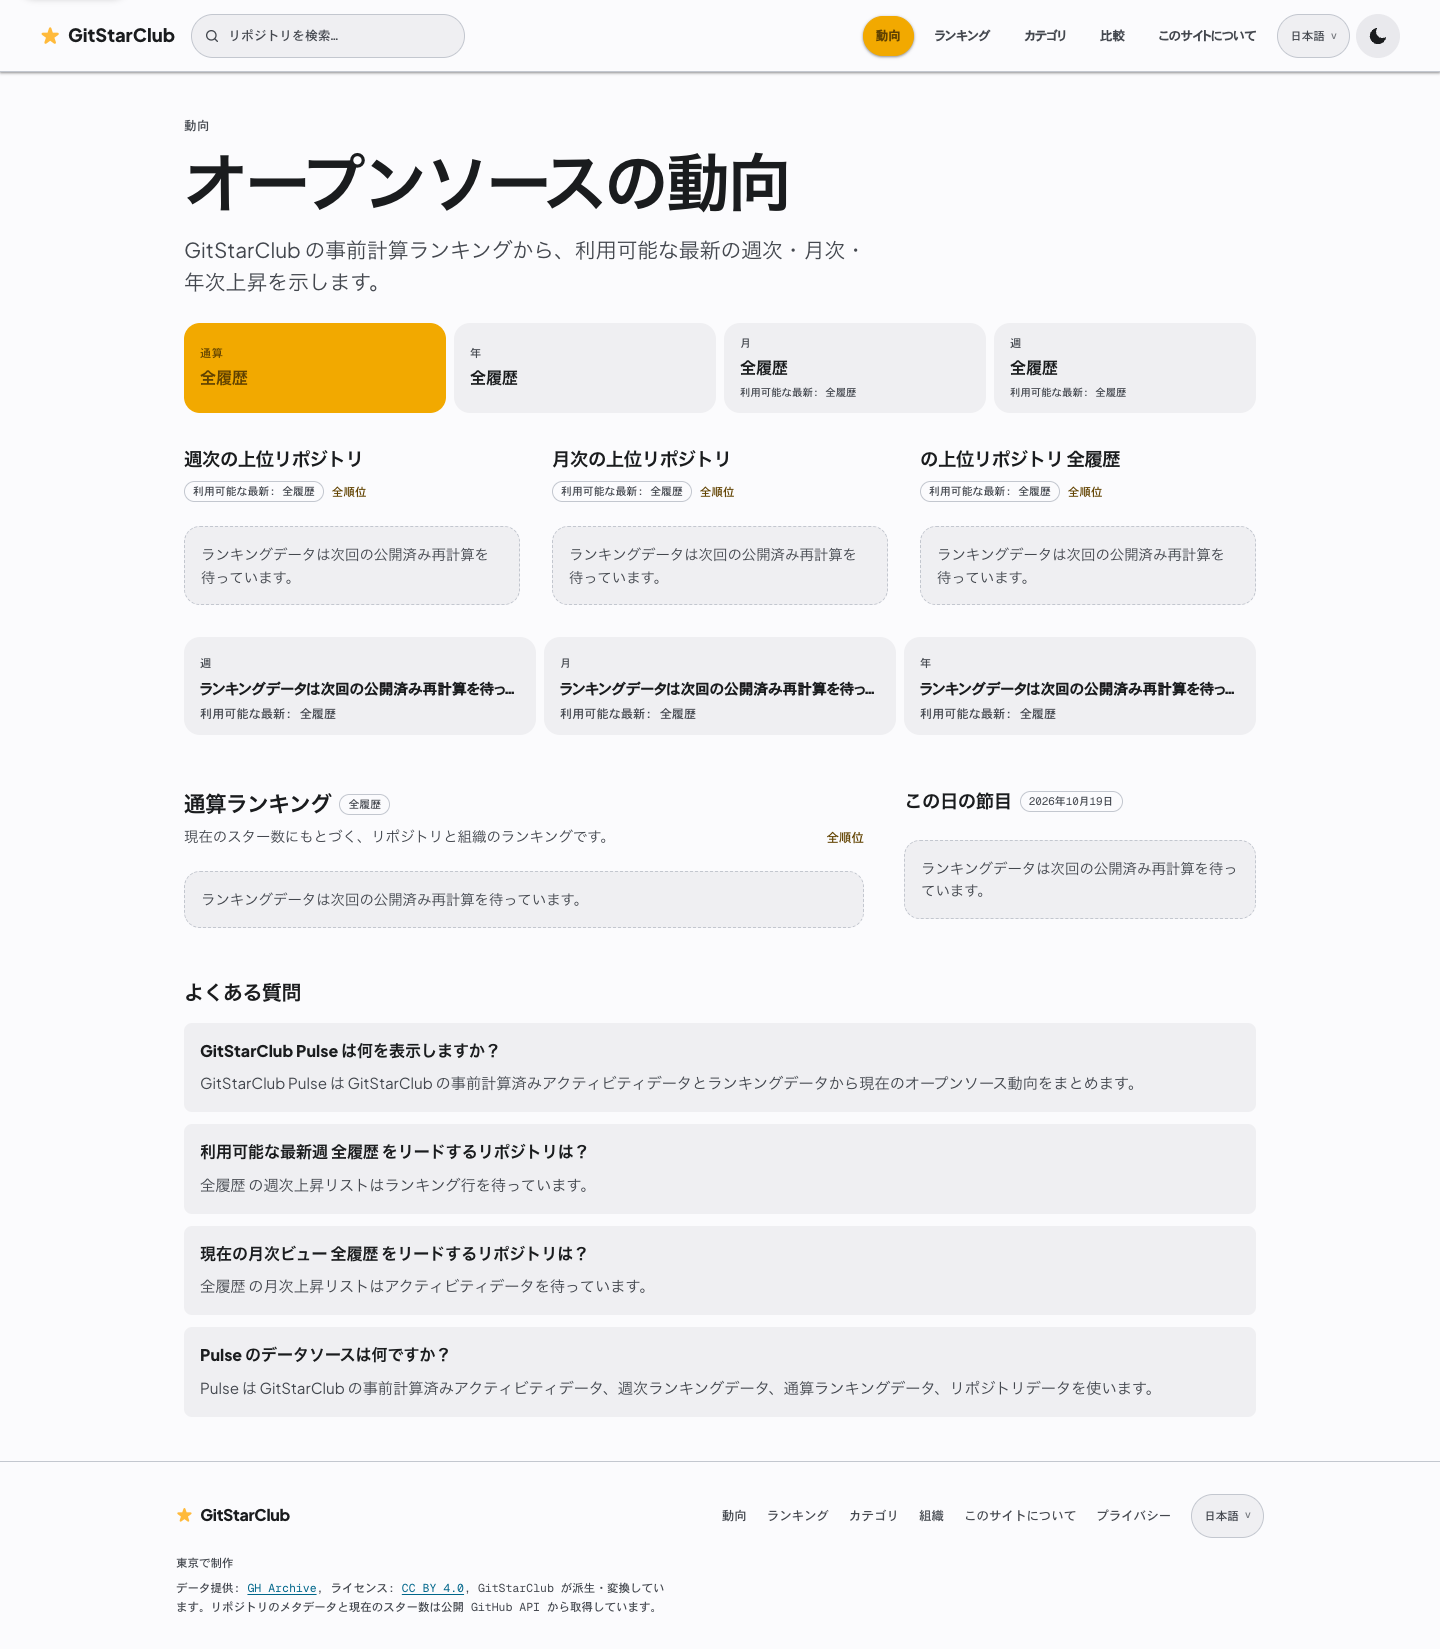
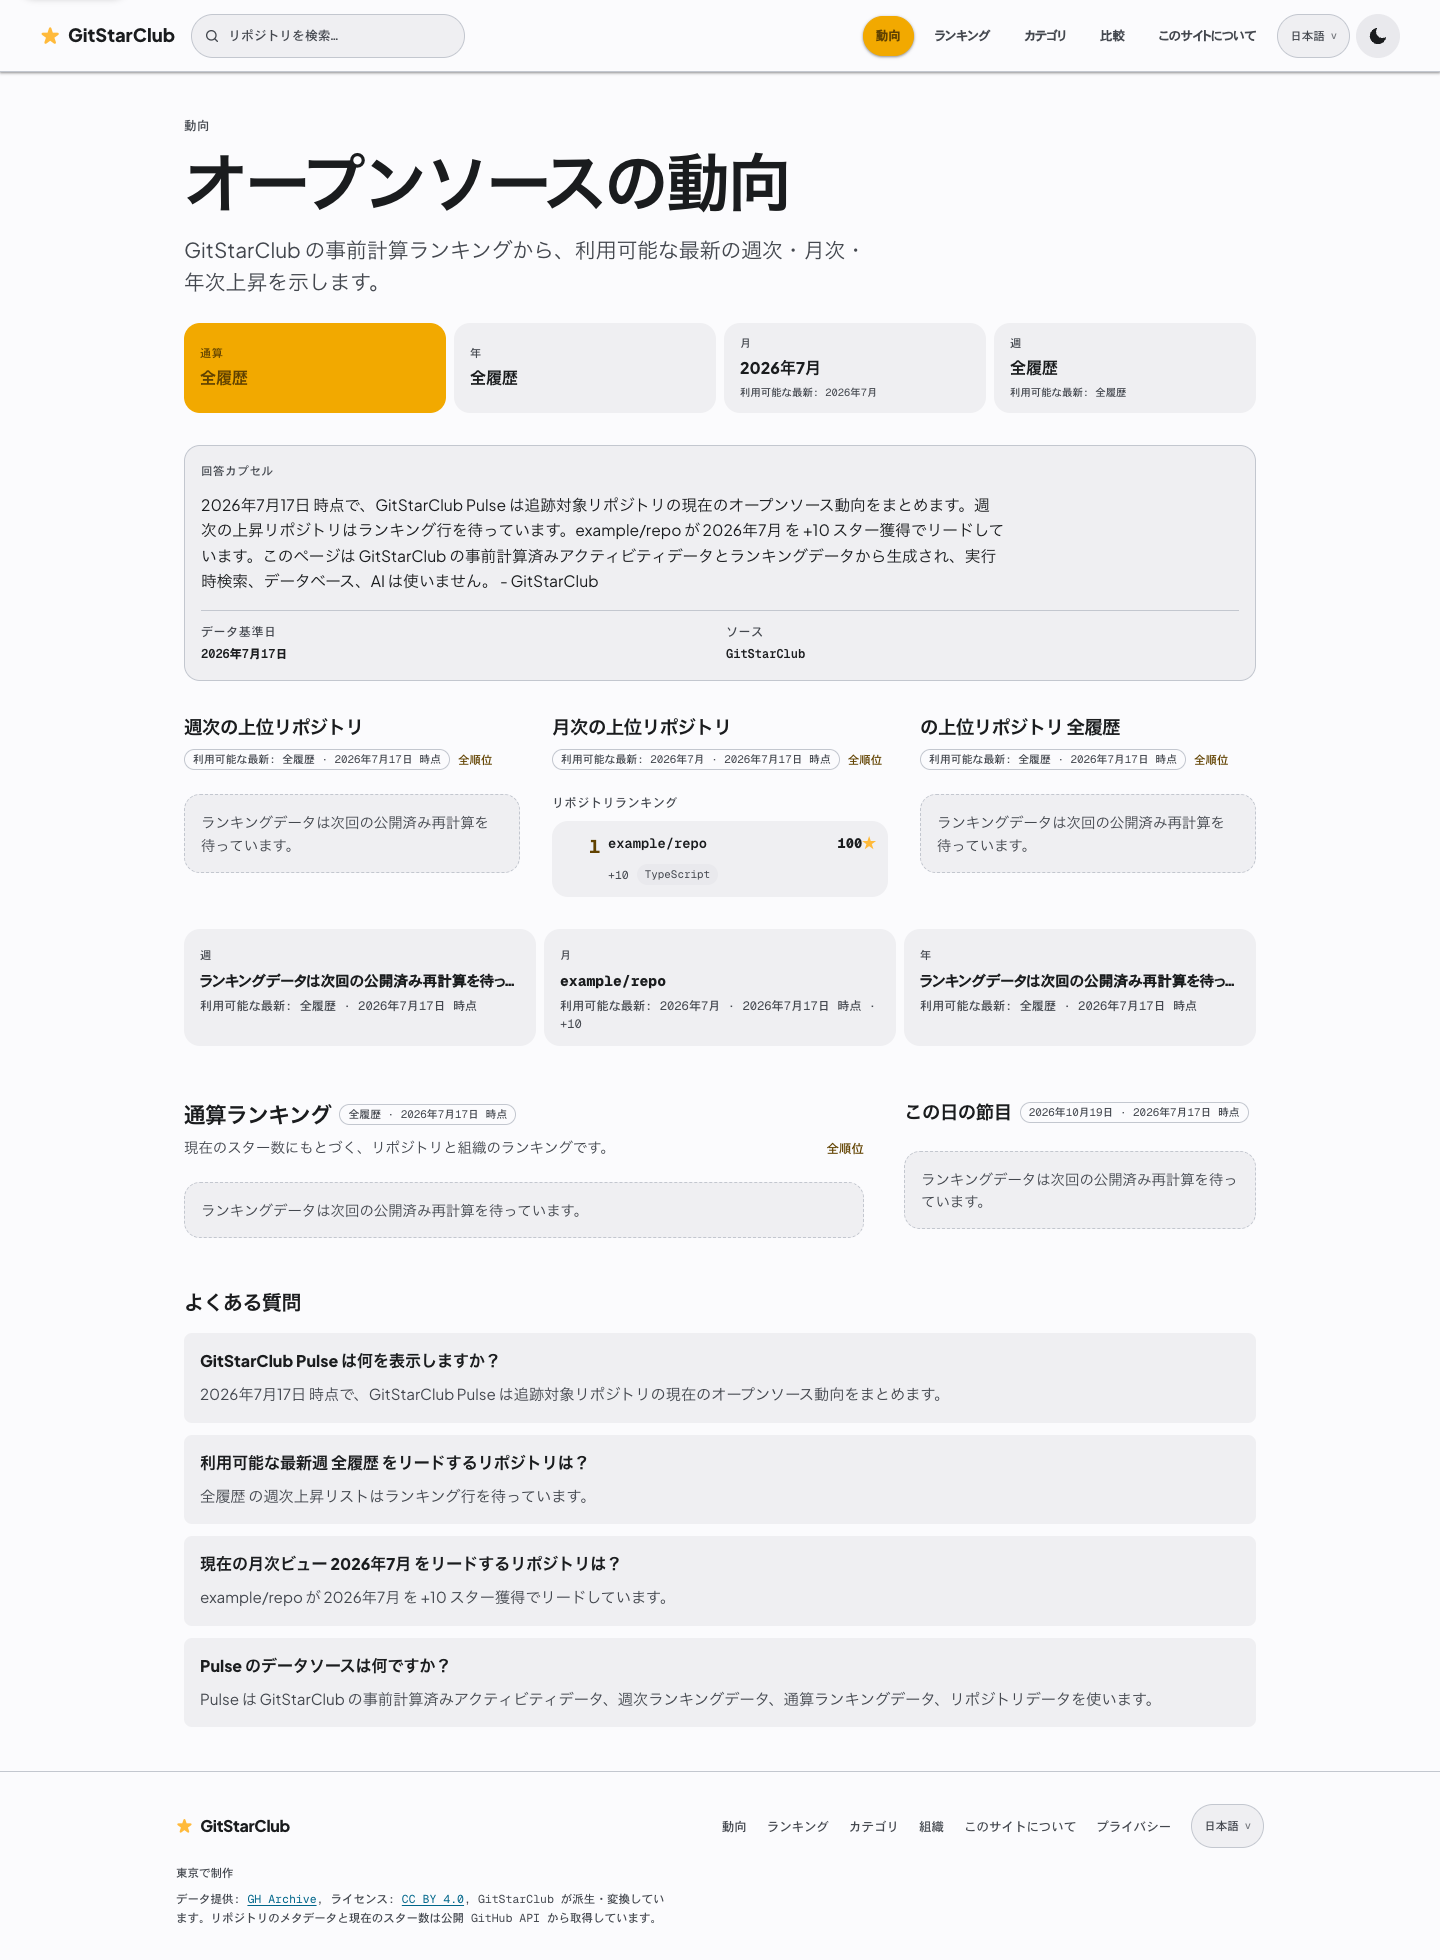
docs: refresh screenshots for React 19.3.1

diff --git a/plans/672-next-16-4-2-screenshots/README.md b/plans/672-next-16-4-2-screenshots/README.md
@@ -1,13 +1,21 @@
 # Issue 672: Next.js 16.4.2 screenshot evidence
 
 Captured on 2026-10-19 with agent-browser 0.39.1 and local Chrome, light theme,
-a 1440 x 1000 viewport, and full-page PNG output. Each pair has identical pixels.
-All six routes returned HTTP 200 and the browser reported no page-script errors.
+a 1440 x 1000 viewport, and full-page PNG output. All six after images were
+recaptured for review round 1 with React and React DOM 19.3.1. Five pairs have
+identical pixels. The Japanese home after image now shows the existing bounded
+fixture data after normal cache regeneration; its original before image shows
+the prerendered empty state. All six routes returned HTTP 200 and the browser
+reported no page-script errors. [after-capture.json](after-capture.json) records
+the source commit, installed versions, dimensions, and hashes for all six new
+captures, including the five whose image bytes stayed identical.
 
 - Before: `origin/pre` at `39f42af0e2bf15fb67e9c02c258d5583ee1b4b0e`, Next.js 16.3.8.
-- After: application code and dependencies at `af404a8`, Next.js 16.4.2. The
-  following evidence commit adds only this directory and plan wording.
-- Both builds used Node 24.20.0, Bun 1.3.14, a frozen install, and
+- After: application code and dependencies at `9723d5e4d9a5f783b3b02b77c559742e4144aa17`,
+  Next.js 16.4.2 and React / React DOM 19.3.1. The following evidence commit
+  changes only this directory.
+- Both builds used Node 24.20.0; the original before build used Bun 1.3.14,
+  and the refreshed after build used Bun 1.4.2. Each used a frozen install and
   `BLOB_BASE_URL=http://127.0.0.1:4010 bun run build` against the repository's
   read-only `web/scripts/ci-build-fixture-server.ts`.
 - Each build was served with `bun run start --hostname 127.0.0.1 --port 3000`
@@ -17,8 +25,8 @@ All six routes returned HTTP 200 and the browser reported no page-script errors.
   components, including honest empty sections, without live data or new data
   coverage. Missing fixture files remain 404. The home pages also exercise
   prerendered empty states and normal regeneration against these fixtures.
-- Service workers and browser caches were cleared between versions. Captures
-  waited for network idle and loaded fonts.
+- The refreshed after captures use a fresh browser profile under the current
+  card temporary directory. Captures waited for network idle and loaded fonts.
 
 | Page | Route | Before | After |
 | --- | --- | --- | --- |
